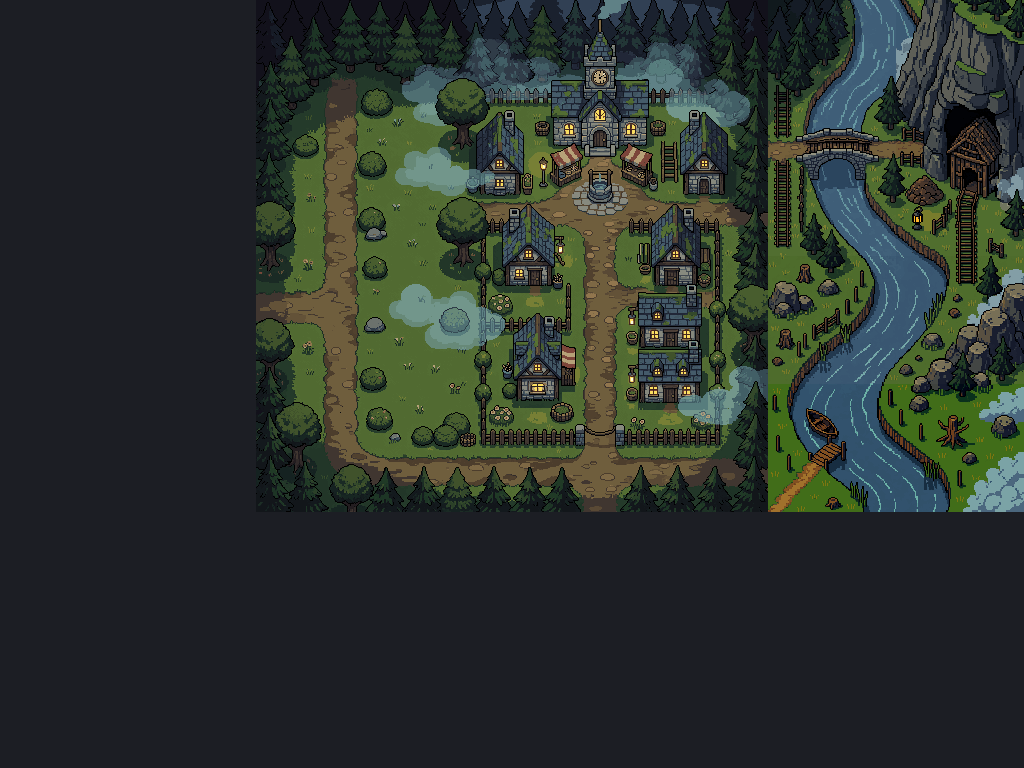
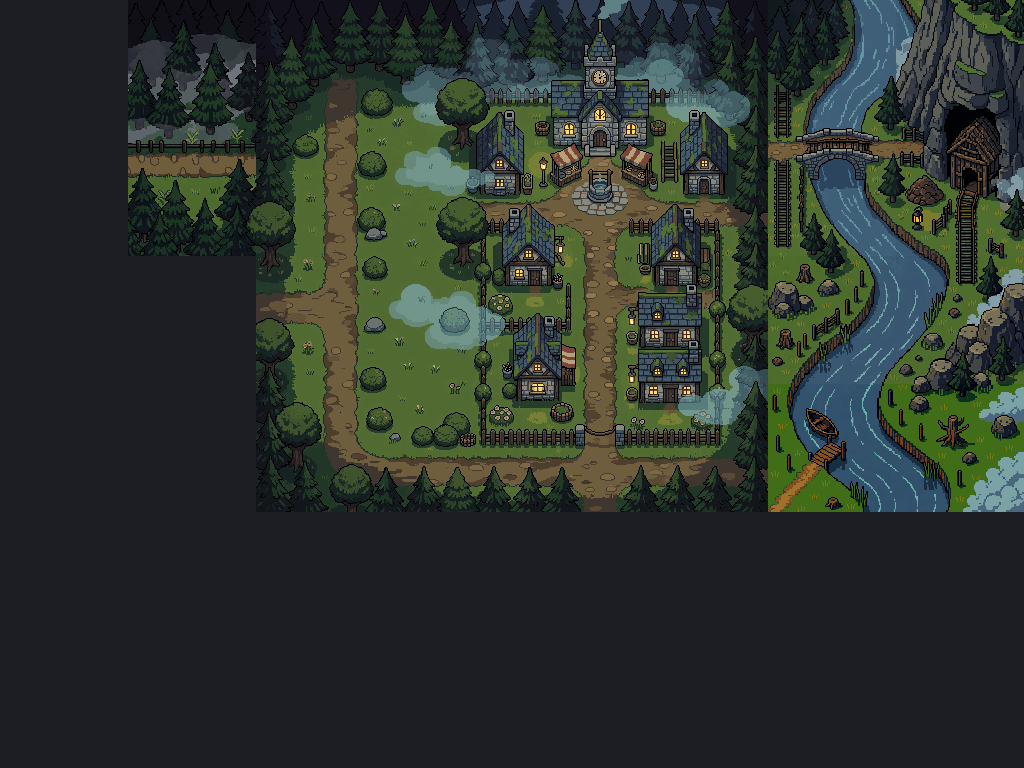
M2b: option A growing stopped after 3 of 4 pieces copied neighbours
North-west forest kept; south and far-west pieces repeated the art beside
them and are kept in failed/ for the record. 8 generations left.

Claude-Session: https://claude.ai/code/session_01Dr9VTr1kWuBucyRkwibyJ7

Changed region(s): [[0.125, 0.0, 0.25, 0.3438]]

diff --git a/docs/HANDOFF.md b/docs/HANDOFF.md
@@ -20,7 +20,7 @@ M2 re-planned on 2026-11-14 (D-035 to D-038; PR #13, which also synced AI-Master
 
 ## Just done
 
-- 2026-11-16 Session on the "Network" environment (PixelLab token works; `/v1/balance` answered 200). Morgan fixed the map size: 1024 × 768 art pixels, zoom steps 1×, 2×, 3× (D-047 amended; the phone's ~2.6 screen pixels per CSS pixel is an assumption to check). Then a 2-generation grow trial (`edit_image_pixen` outpainting from mock-up 1, `art/pixellab/grow1/`): style holds and new-to-new joins hide, but the heart's cut-off buildings still end at a straight line. Trial 2 (`grow2/`, 2 generations): growing from open ground joins cleanly, but repainting mock-up 1's edge leaves a seam. Morgan chose a new centre, then grow; two centre tries (`map1/`) both miss. Morgan chose to grow centre 2: east side done (`map2/`, river, bridge, mine), west copies centre 2's lane strip; 12 generations left. Waiting on Morgan's A (carry on) or B (pause) on the review page https://claude.ai/artifact/VrSULVpxTb63nqH1YRbjA1; art results always go on such a page (pixellab guide, section 4).
+- 2026-11-16 Session on the "Network" environment (PixelLab token works; `/v1/balance` answered 200). Morgan fixed the map size: 1024 × 768 art pixels, zoom steps 1×, 2×, 3× (D-047 amended; the phone's ~2.6 screen pixels per CSS pixel is an assumption to check). Then a 2-generation grow trial (`edit_image_pixen` outpainting from mock-up 1, `art/pixellab/grow1/`): style holds and new-to-new joins hide, but the heart's cut-off buildings still end at a straight line. Trial 2 (`grow2/`, 2 generations): growing from open ground joins cleanly, but repainting mock-up 1's edge leaves a seam. Morgan chose a new centre, then grow; two centre tries (`map1/`) both miss. Morgan chose to grow centre 2: east side done (`map2/`, river, bridge, mine), west copies centre 2's lane strip; Morgan picked A (carry on); 4 more used, 1 kept (north-west forest), 3 copied their neighbours; stopped with 8 left. Waiting on Morgan's next pick on the review page https://claude.ai/artifact/VrSULVpxTb63nqH1YRbjA1; art results always go on such a page (pixellab guide, section 4).
 - 2026-11-15 M2b PixelLab (cloud session, branch `claude/vibrant-davinci-m5m64c`, cut from `m2b-art-workshop`): token is a network secret on the "Network" environment (use PixelLab's "Claude Code" token). Test 1 grass-to-dirt tileset; the town map rebuilt wide (`art/town_wide.py`, D-047 amended four times: scroll, north forest, mine upper right, open south, forest road north-west, organic town, dense north and sparse fringe). Morgan: still not the vibe. Three higher-detail mock-ups (`art/pixellab/mock_hd/`); Morgan picked mock-up 1 as the art direction (D-048, supersedes D-046). Style tests: the same pixen wording holds the style (`art/pixellab/style_test/`). First map strip west/heart/east (`art/pixellab/strip1/`): sections match, joins show; strip 2 hides the joins on a tree belt and the river, colour-matched (`art/pixellab/strip2/_strip_graded.png`). Morgan: "Not perfect but it's ok"; the 3 realism fixes were not run. Goal recorded in D-047: one seamless map that scrolls and zooms (whole town zoomed out). Open: how to make one seamless map in PixelLab (strips join badly; options in the workshop log). 26 generations left. Draft PR: https://github.com/DdraigFawr13/Silvanus/pull/17 (carries all of `m2b-art-workshop`); PR #16's "D-041" clashes with the art D-041, renumber whichever merges second. Working guide: `docs/workshop/pixellab-guide.md`. Details: `docs/workshop/m2b-dragonscape.md`.
 - 2026-11-14 M2b art: the town map from the ChatGPT pieces is "not quite there yet" (Morgan); Morgan chose PixelLab and a cloud session. The art workspace moved into `art/` (outputs pixel-identical to the PC copies), `.mcp.json` added (token from `PIXELLAB_API_TOKEN`, never in the repo).
 - Earlier entries are in `docs/archive/handoff-2026-11.md`.
@@ -29,7 +29,7 @@ M2 re-planned on 2026-11-14 (D-035 to D-038; PR #13, which also synced AI-Master
 
 1. Morgan's M2a test (J7): a new town, check-ins over a day, the Village in about 8 real hours, upgrades found without help. Record their answer here in their words, then set `docs/specs/m2a-pace.md` to Shipped on the next work branch. Opening their old town first jumps it forward up to 8 real hours.
 2. M2e Choices in a new session: spec it with `write-spec` from step 3 (input: D-040 and the `play1`, `play2`, `playfinal` pages), mock-ups first for the board and pins, then build on a new branch from `main`. Mind `m2b-art-workshop` also edits HANDOFF: merge, don't overwrite.
-3. M2b Art workshop (D-037), merged so far in PR #17 (https://github.com/DdraigFawr13/Silvanus/pull/17). Size 1024 × 768 and zoom 1×/2×/3× fixed (D-047); grow trials, new-centre tries and the east of the map done (14 generations, see the workshop log). Next: Morgan picks how to grow the map (options and costs at the end of `docs/workshop/m2b-dragonscape.md`; 12 trial generations left; read `docs/workshop/pixellab-guide.md` first; ask before every paid call). The PixelLab token is a network secret on the "Network" cloud environment; `.mcp.json` still names `PIXELLAB_API_TOKEN`, which is unset, but the proxy injects the token. Still open: D-041 Proposed and partly superseded by D-048; the UI_STYLE art section waits for the final art. Work on a new branch from `main`; `m2b-art-workshop` is fully contained in `main` after #17 and can be deleted with Morgan's OK.
+3. M2b Art workshop (D-037), merged so far in PR #17 (https://github.com/DdraigFawr13/Silvanus/pull/17). Size 1024 × 768 and zoom 1×/2×/3× fixed (D-047); grow trials, new centres and the map's east and north-west done (18 generations, see the workshop log). Next: Morgan picks how to grow the map (options and costs at the end of `docs/workshop/m2b-dragonscape.md`; 8 trial generations left; read `docs/workshop/pixellab-guide.md` first; ask before every paid call). The PixelLab token is a network secret on the "Network" cloud environment; `.mcp.json` still names `PIXELLAB_API_TOKEN`, which is unset, but the proxy injects the token. Still open: D-041 Proposed and partly superseded by D-048; the UI_STYLE art section waits for the final art. Work on a new branch from `main`; `m2b-art-workshop` is fully contained in `main` after #17 and can be deleted with Morgan's OK.
 4. Still open: Morgan's phone tests from S1 and S2 ("Update ready" and Reload; build a Woodcutter's camp, close the app, come back), S3 (switch the Mine to stone; let the Workshop run out of ore overnight) and S4 (pin someone to a bad job and read why morale falls). Record answers here.
 5. The repo has auto-merge off: merge by hand once the ready CI run is green, and do not push and mark ready within the same few seconds.
 6. Phobos: Morgan will send an integration plan "in the next couple of days" (parked, D-035).

diff --git a/docs/workshop/m2b-dragonscape.md b/docs/workshop/m2b-dragonscape.md
@@ -268,3 +268,11 @@ Morgan chose "Grow centre 2" (about 16 generations approved). Centre 2 sits at x
 - Kept (4): north-east `e1a` (forest, river from the top edge, stone bridge), `e2a` (mountain cliffs off the top and right edges, mine entrance, spoil heap, lantern), then `e3` and `e4` grown down from them (a winding river with reeds and boulders, a jetty and boat, the mountain foot thinning to grass). No visible joins between them; a faint line where centre 2's pine border meets the river bank.
 - Failed (4, in `failed/`): `e1b`, `e2b` filled the east bottom half beside the town and copied the town's cottages, turned the river into a straight canal, and repeated each other. `w1`, `w2` filled the west beside centre 2's left edge and copied its lane-and-bushes strip three times; no lantern gate.
 - Reading (Claude's inference): a blank half next to strong features (cottages, a lane) gets a copy of them. Growing down from art above (the river) works. Zoomed out, the east is drawn at a larger scale than the town: the bridge and mine are big next to the cottages.
+
+## Growing on: option A (2026-11-16)
+
+Morgan picked A on the review page (https://claude.ai/artifact/VrSULVpxTb63nqH1YRbjA1), "carry on growing", 12 generations. 4 used, 8 left (`get_balance`); stopped after three failures in four. Files in `art/pixellab/map2/` (failures in `failed/`). Source: AI-generated with PixelLab by Claude for Morgan, 2026-11-16.
+
+- Kept: `w1r`, the north-west forest (x 128-256), worded "only dense pine forest, no lanes". It added a fenced road running west anyway, which can serve as D-047's forest road.
+- Failed: `w2r` (x 0-128) is a pixel-for-pixel copy of `w1r`; `s2` and `s3`, grown down from centre 2's bottom edge, each copied that edge's lane, fence, gate and pine row, so the band repeats with cut cottages on the join.
+- Reading (Claude's inference): `edit_image_pixen` copies whatever sits in the context half unless the asked-for content is very different from it (the river and mountain were; forest next to forest and town next to town were not). Growing down worked only under the river. This method won't finish the map at a useful failure rate.
